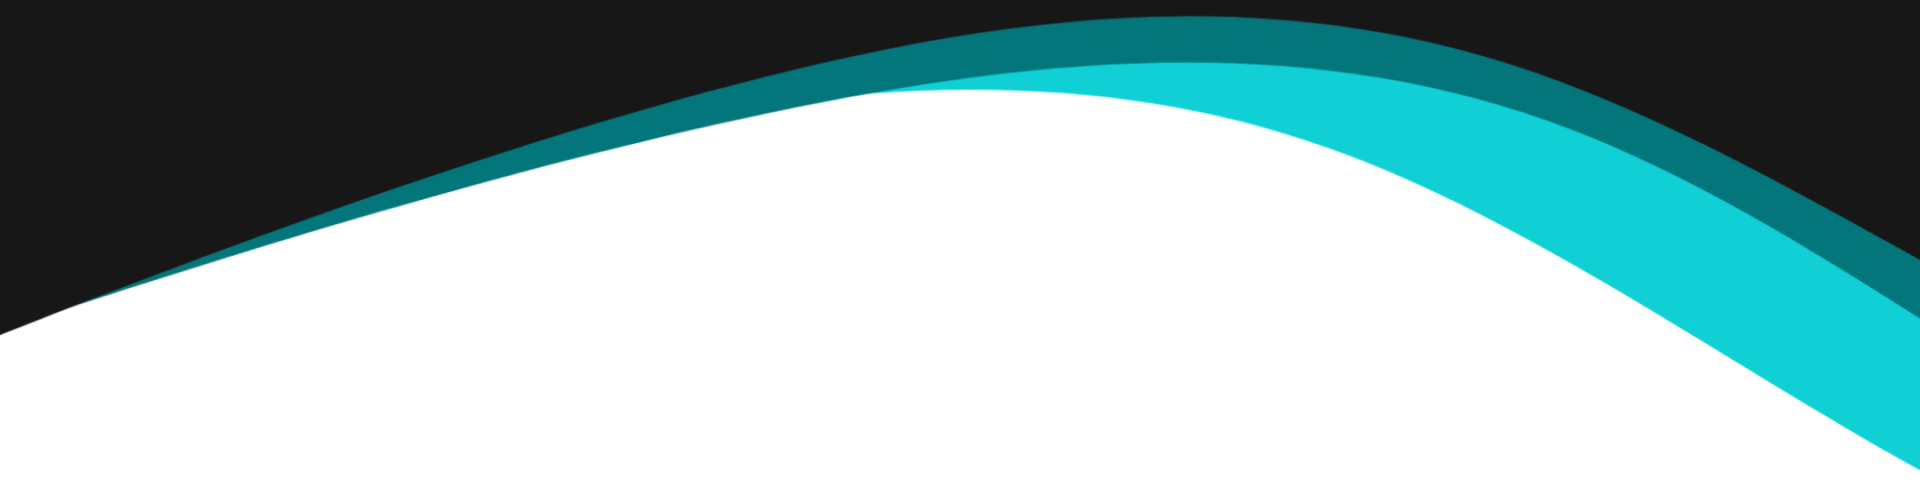
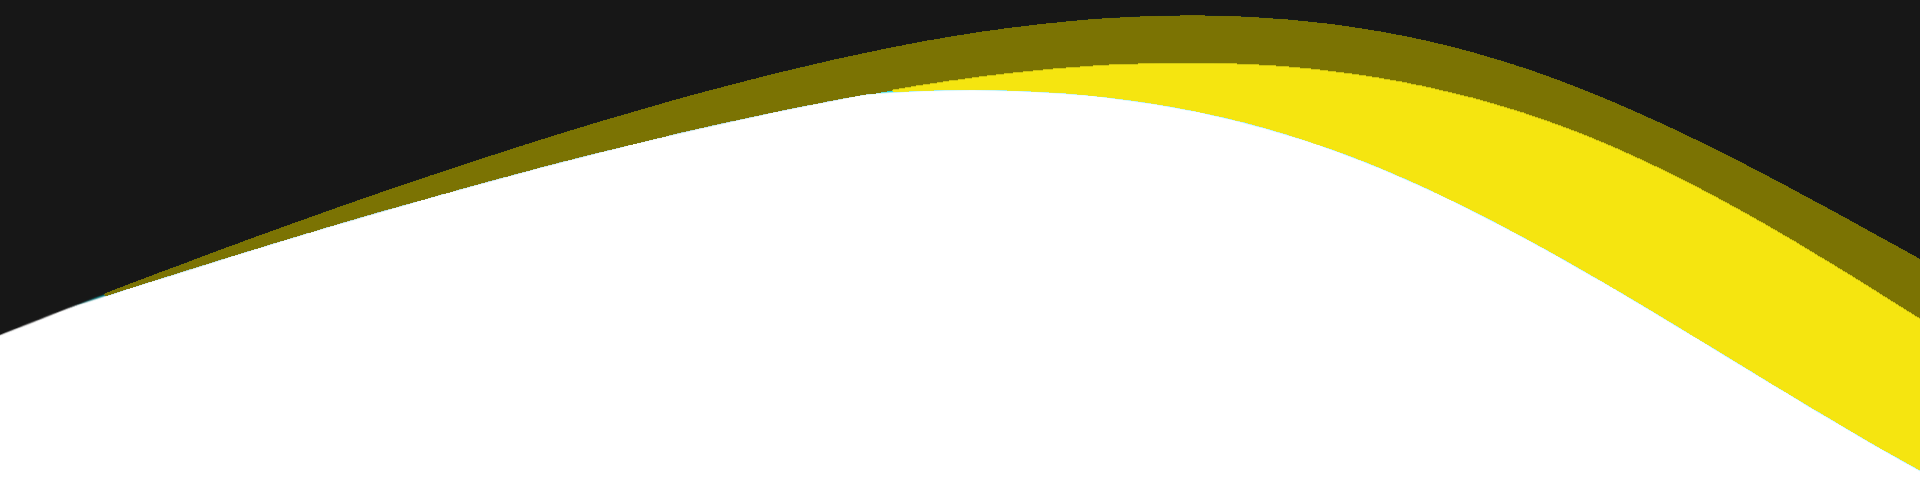
Watermelon

Changed region(s): [[0.0938, 0.0312, 1.0, 0.9688], [0.0625, 0.5625, 0.0938, 0.5938]]

diff --git a/script.js b/script.js
@@ -3,6 +3,7 @@
 hollow = false;
 kylie = true;
 banana = false;
+watermelon = false;
 
 
 // function to travel to external links
@@ -177,6 +178,16 @@ document.addEventListener('DOMContentLoaded', function() {
         document.documentElement.style.setProperty('--primary-color', '#7b7303');
         document.documentElement.style.setProperty('--highlight-color', '#f5e510');
         changeAllFavicons('assets/images/events/banana/logo.svg');
+    }
+    if (watermelon) {
+        document.getElementById('logo').src = 'assets/images/events/watermelon/logo.svg';
+        document.getElementById('header').style.backgroundImage = 'url(assets/images/events/watermelon/banner.png)';
+        document.getElementById('projects').style.backgroundImage = 'url(assets/images/events/watermelon/projects_section.png)';
+        document.getElementById('experience').style.backgroundImage = 'url(assets/images/events/watermelon/experience.png)';
+        document.getElementById('logo_footer').src = 'assets/images/events/watermelon/logo.svg';
+        document.documentElement.style.setProperty('--primary-color', '#dd2e44');
+        document.documentElement.style.setProperty('--highlight-color', '#5c913b');
+        changeAllFavicons('assets/images/events/watermelon/logo.svg');
     }
 });
 
